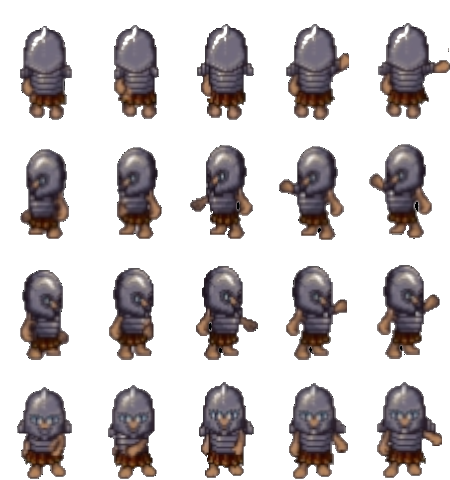
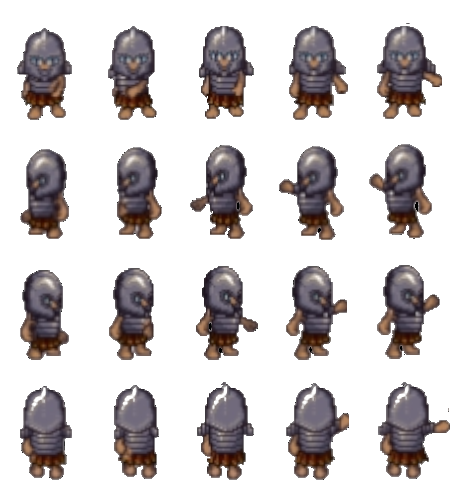
poprawa animacji i tego typa co sie źle rysował

diff --git a/Magnaci i Informatycy/Magnaci i Informatycy/game.cpp b/Magnaci i Informatycy/Magnaci i Informatycy/game.cpp
@@ -298,7 +298,7 @@ bool window::player_movement() // ruch gracza na planszy
 		if (map[player->get_X() + 1][player->get_Y()] == nullptr)
 		{
 			tmp->is_moving = true;
-			tmp->what_move_should_I_draw();
+			tmp->what_move_should_I_draw(8);
 			change_position(player, player->get_X(), player->get_Y(), player->get_X() + 1, player->get_Y());
 		}
 		else if (typeid(Element) == typeid(*map[player->get_X() + 1][player->get_Y()]))
@@ -310,7 +310,7 @@ bool window::player_movement() // ruch gracza na planszy
 				else
 				{
 					tmp->is_moving = true;
-					tmp->what_move_should_I_draw();
+					tmp->what_move_should_I_draw(8);
 					change_position(player, player->get_X(), player->get_Y(), player->get_X() + 1, player->get_Y());
 				}
 			}
@@ -322,7 +322,7 @@ bool window::player_movement() // ruch gracza na planszy
 		if (map[player->get_X() - 1][player->get_Y()] == nullptr)
 		{
 			tmp->is_moving = true;
-			tmp->what_move_should_I_draw();
+			tmp->what_move_should_I_draw(8);
 			change_position(player, player->get_X(), player->get_Y(), player->get_X() - 1, player->get_Y());
 		}
 		else if (typeid(Element) == typeid(*map[player->get_X() - 1][player->get_Y()]))
@@ -334,7 +334,7 @@ bool window::player_movement() // ruch gracza na planszy
 				else
 				{
 					tmp->is_moving = true;
-					tmp->what_move_should_I_draw();
+					tmp->what_move_should_I_draw(8);
 					change_position(player, player->get_X(), player->get_Y(), player->get_X() - 1, player->get_Y());
 				}
 			}
@@ -346,7 +346,7 @@ bool window::player_movement() // ruch gracza na planszy
 		if (map[player->get_X()][player->get_Y() - 1] == nullptr)
 		{
 			tmp->is_moving = true;
-			tmp->what_move_should_I_draw();
+			tmp->what_move_should_I_draw(8);
 			change_position(player, player->get_X(), player->get_Y(), player->get_X(), player->get_Y() - 1);
 		}
 		else if (typeid(Element) == typeid(*map[player->get_X()][player->get_Y() - 1]))
@@ -358,7 +358,7 @@ bool window::player_movement() // ruch gracza na planszy
 				else
 				{
 					tmp->is_moving = true;
-					tmp->what_move_should_I_draw();
+					tmp->what_move_should_I_draw(8);
 					change_position(player, player->get_X(), player->get_Y(), player->get_X(), player->get_Y() - 1);
 				}
 			}
@@ -370,7 +370,7 @@ bool window::player_movement() // ruch gracza na planszy
 		if (map[player->get_X()][player->get_Y() + 1] == nullptr)
 		{
 			tmp->is_moving = true;
-			tmp->what_move_should_I_draw();
+			tmp->what_move_should_I_draw(8);
 			change_position(player, player->get_X(), player->get_Y(), player->get_X(), player->get_Y() + 1);
 		}
 		else if (typeid(Element) == typeid(*map[player->get_X()][player->get_Y() + 1]))
@@ -382,7 +382,7 @@ bool window::player_movement() // ruch gracza na planszy
 				else
 				{
 					tmp->is_moving = true;
-					tmp->what_move_should_I_draw();
+					tmp->what_move_should_I_draw(8);
 					change_position(player, player->get_X(), player->get_Y(), player->get_X(), player->get_Y() + 1);
 				}
 			}
@@ -525,7 +525,7 @@ bool window::player_movement() // ruch gracza na planszy
 	else
 	{
 		tmp->is_moving = false;
-		tmp->what_move_should_I_draw();
+		tmp->what_move_should_I_draw(8);
 	}
 	return true;
 }

diff --git a/Magnaci i Informatycy/Magnaci i Informatycy/characters.cpp b/Magnaci i Informatycy/Magnaci i Informatycy/characters.cpp
@@ -86,35 +86,35 @@ bool Character::File_read(std::string& file_name)
 	return true;
 }
 
-void Character::what_move_should_I_draw()
+void Character::what_move_should_I_draw(int animation_frames)
 {
 	if (is_moving)
 	{
 		switch (direction)
 		{
-		case UP:
-			if (bitmap_start_x >= 720)
+		case DOWN:
+			if (bitmap_start_x >= measure * 1.5 * ((double)animation_frames - 1))
 				bitmap_start_x = 0;
 			else
 				bitmap_start_x += measure * 1.5;
 			bitmap_start_y = 0;
 			break;
 		case RIGHT:
-			if (bitmap_start_x >= 720)
+			if (bitmap_start_x >= measure * 1.5 * ((double)animation_frames - 1))
 				bitmap_start_x = 0;
 			else
 				bitmap_start_x += measure * 1.5;
 			bitmap_start_y = 240;
 			break;
-		case DOWN:
-			if (bitmap_start_x >= 720)
+		case UP:
+			if (bitmap_start_x >= measure * 1.5 * ((double)animation_frames - 1))
 				bitmap_start_x = 0;
 			else
 				bitmap_start_x += measure * 1.5;
 			bitmap_start_y = 360;
 			break;
 		case LEFT:
-			if (bitmap_start_x >= 720)
+			if (bitmap_start_x >= measure * 1.5 * ((double)animation_frames - 1))
 				bitmap_start_x = 0;
 			else
 				bitmap_start_x += measure * 1.5;
@@ -126,7 +126,7 @@ void Character::what_move_should_I_draw()
 	{
 		switch (direction)
 		{
-		case UP:
+		case DOWN:
 			bitmap_start_x = 0;
 			bitmap_start_y = 0;
 			break;
@@ -134,7 +134,7 @@ void Character::what_move_should_I_draw()
 			bitmap_start_x = 0;
 			bitmap_start_y = 240;
 			break;
-		case DOWN:
+		case UP:
 			bitmap_start_x = 0;
 			bitmap_start_y = 360;
 			break;
@@ -150,7 +150,7 @@ void Character::what_attack_should_I_draw(int animation_frames)
 {
 	switch (direction)
 	{
-	case UP:
+	case DOWN:
 		if (bitmap_start_x >= measure * 1.5 * ((double)animation_frames - 1))
 		{
 			attack_type = 0;
@@ -170,7 +170,7 @@ void Character::what_attack_should_I_draw(int animation_frames)
 			bitmap_start_x += measure * 1.5;
 		bitmap_start_y = measure*4;
 		break;
-	case DOWN:
+	case UP:
 		if (bitmap_start_x >= measure * 1.5 * ((double)animation_frames - 1))
 		{
 			attack_type = 0;

diff --git a/Magnaci i Informatycy/Magnaci i Informatycy/window.cpp b/Magnaci i Informatycy/Magnaci i Informatycy/window.cpp
@@ -183,8 +183,10 @@ void window::save_inventory()
         for (int i = 0; i < 7; i++)
         {
             tmp_item = tmp_inventory->get_equipment(i);
-            if(tmp_item)
+            if (tmp_item)
                 file << tmp_item->get_item_id() << std::endl;
+            else
+                file << '0' << std::endl;
         }
         file << tmp_inventory->get_inventory_size() << std::endl;
         for (int i = 0; i < tmp_inventory->get_inventory_size(); i++)
@@ -199,7 +201,13 @@ void window::save_inventory()
 
 void window::save_quests()
 {
+    std::fstream file;
+    file.open("save/save_quests.txt");
+    if (file)
+    {
 
+        file.close();
+    }
 }
 
 void window::load_game()

diff --git a/Magnaci i Informatycy/Magnaci i Informatycy/characters.h b/Magnaci i Informatycy/Magnaci i Informatycy/characters.h
@@ -63,7 +63,7 @@ public:
 	Character(int X, int Y, int seek_id, std::string& file_name);
 	Character(std::string name, int id, ALLEGRO_BITMAP* texture, int hp, int max_hp, int mana, int max_mana, int lvl, int min_damage, int max_damage, int armor, ATTITUDE attitude, int X, int Y);
 	bool File_read(std::string& file_name); // false jak blad odczytu
-	void what_move_should_I_draw();
+	void what_move_should_I_draw(int animation_frames);
 	void what_attack_should_I_draw(int animation_frames);
 	void change_texture(std::string tmp);
 	int get_hp();

diff --git a/Magnaci i Informatycy/Magnaci i Informatycy/locations.cpp b/Magnaci i Informatycy/Magnaci i Informatycy/locations.cpp
@@ -583,7 +583,7 @@ void Location::mob_movement(Object* player, Object*** map)
 			}
 			else
 				tmp_mob->is_moving = false;
-		tmp_mob->what_move_should_I_draw();
+		tmp_mob->what_move_should_I_draw(8);
 	}
 }
 
